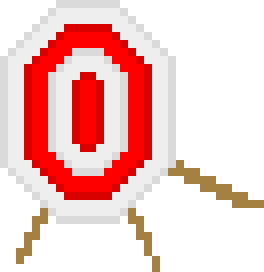
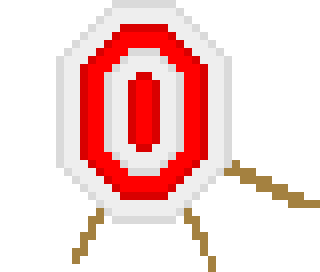
Target comes into view at the end.

diff --git a/src/com/benjih/ld28/game/Game.java b/src/com/benjih/ld28/game/Game.java
@@ -22,13 +22,14 @@ public class Game {
 	public void run () {
 		Sprite background = new Sprite(0, 0, "res/background.png");
 		Sprite background2 = new Sprite(800, 0, "res/background.png");
+		Sprite target = new Sprite(14220, 200, "/res/target.png");
 		Sprite fireMessage = new Sprite(0, 0, "res/fire.png");
 		Sprite bow = new Sprite(0, 100, "res/bow.png");
 		Arrow arrow = new Arrow();
 		
 		beforeFiringLoop(background, fireMessage, bow, arrow);
-		int score = flightLoop(background, background2, bow, arrow);
-		score = finalLoop(background, background2, arrow, score);
+		int score = flightLoop(background, background2, target, bow, arrow);
+		score = finalLoop(background, background2, target, arrow, score);
 		System.out.println(score);
 		
 	}
@@ -47,7 +48,7 @@ public class Game {
 			
 			display.closeIfRequested();
 			
-			if (display.getTime()  >= start + 3000) {
+			if (display.getTime()  >= start + 1) {
 				fireMessage.render();
 				
 				display.closeIfRequested();
@@ -62,7 +63,7 @@ public class Game {
 		}
 	}
 	
-	private int flightLoop(Sprite background, Sprite background2, Sprite bow, Arrow arrow) {
+	private int flightLoop(Sprite background, Sprite background2, Sprite target, Sprite bow, Arrow arrow) {
 		display.generateDelta();
 		
 		ArrayList<Coin> coins = createCoins();
@@ -72,13 +73,14 @@ public class Game {
 		long shotFired = display.getTime();
 		long timeInFlight = 0;
 		
-		while (timeInFlight < 1 && play) {
+		while (timeInFlight < 15 && play) {
 			int delta = display.generateDelta();
 			
 			display.blit();
 			
 			background.render();
 			background2.render();
+			target.render();
 			bow.render();
 			arrow.render();
 			
@@ -89,7 +91,7 @@ public class Game {
 			if (Keyboard.isKeyDown(Keyboard.KEY_W)) {
 				arrow.increaseHeight(speed, delta);
 			} else {
-				arrow.decreaseHeight(speed, delta);
+//				arrow.decreaseHeight(speed, delta);
 			}
 			
 			display.closeIfRequested();
@@ -98,6 +100,7 @@ public class Game {
 			
 			scrollAndRepeatSprite(background, delta);
 			scrollAndRepeatSprite(background2, delta);
+			scrollAndHideSprite(target, delta);
 			scrollAndHideSprite(bow, delta);
 			
 			ArrayList<Coin> copyOfCoins = new ArrayList<Coin>(coins);
@@ -122,7 +125,7 @@ public class Game {
 		return score;
 	}
 	
-	private int finalLoop (GLObject background, GLObject background2, Arrow arrow, int score) {
+	private int finalLoop (GLObject background, GLObject background2, Sprite target, Arrow arrow, int score) {
 		boolean play = true;
 		display.generateDelta();
 		
@@ -132,6 +135,7 @@ public class Game {
 			
 			background.render();
 			background2.render();
+			target.render();
 			arrow.render();
 			
 			arrow.setX(arrow.getX() + (int) Math.floor(speed * delta));
@@ -144,24 +148,24 @@ public class Game {
 			display.update();
 		}
 		
-		int target = 300;
-		int finalPosition = arrow.getY();
-		
-		System.out.println("Trying to calculate bonus score");
-		int differance = Math.abs(finalPosition - target);
-		
-		if (differance < 50 ) {
-			score = score + 1000;
-			System.out.println(1000);
-		} else if (differance < 100) {
-			score = score + 500;
-			System.out.println(500);
-			
-		} else if (differance < 200) {
-			score = score + 250;
-			System.out.println(250);
-			
-		}
+//		int target = 300;
+//		int finalPosition = arrow.getY();
+//		
+//		System.out.println("Trying to calculate bonus score");
+//		int differance = Math.abs(finalPosition - target);
+//		
+//		if (differance < 50 ) {
+//			score = score + 1000;
+//			System.out.println(1000);
+//		} else if (differance < 100) {
+//			score = score + 500;
+//			System.out.println(500);
+//			
+//		} else if (differance < 200) {
+//			score = score + 250;
+//			System.out.println(250);
+//			
+//		}
 		
 		return score;
 	}
